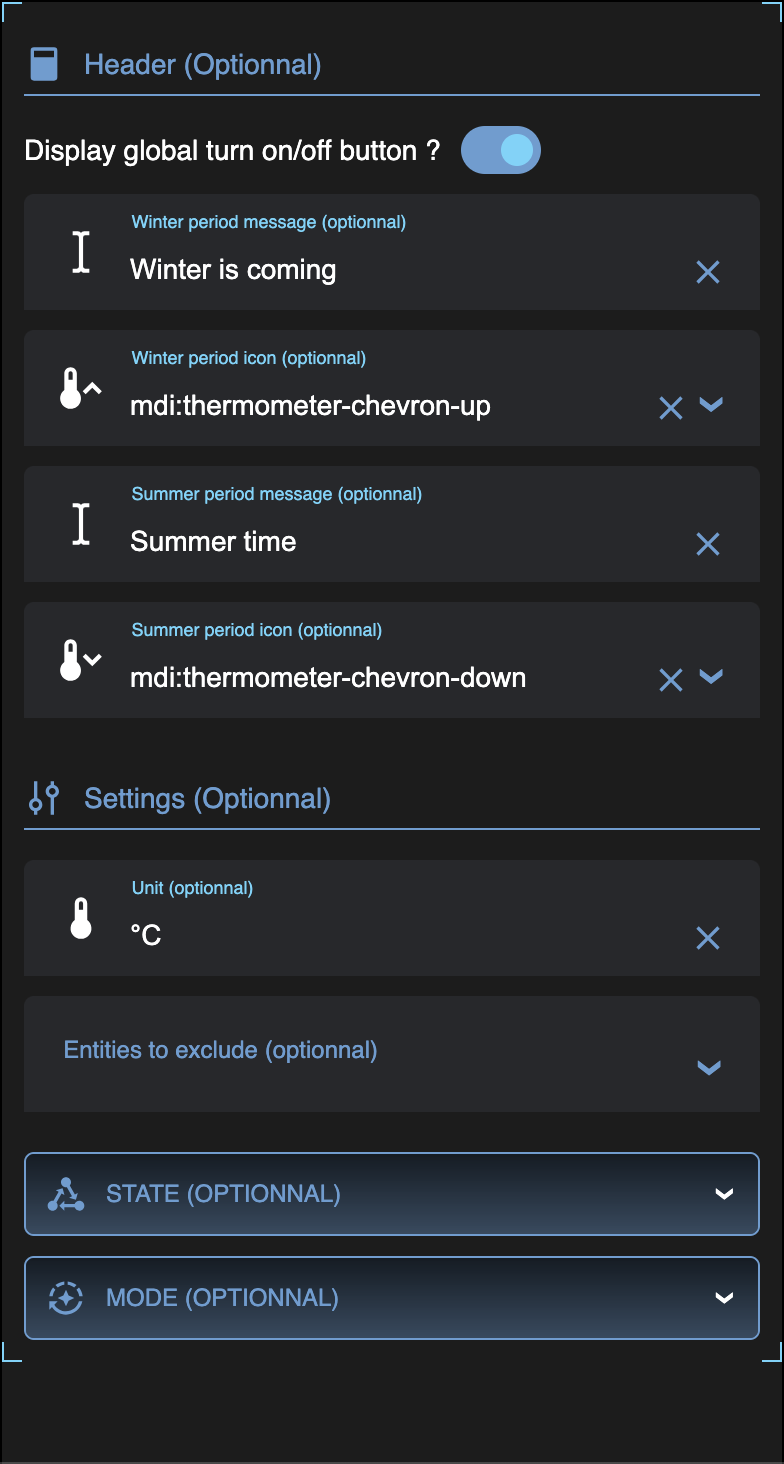
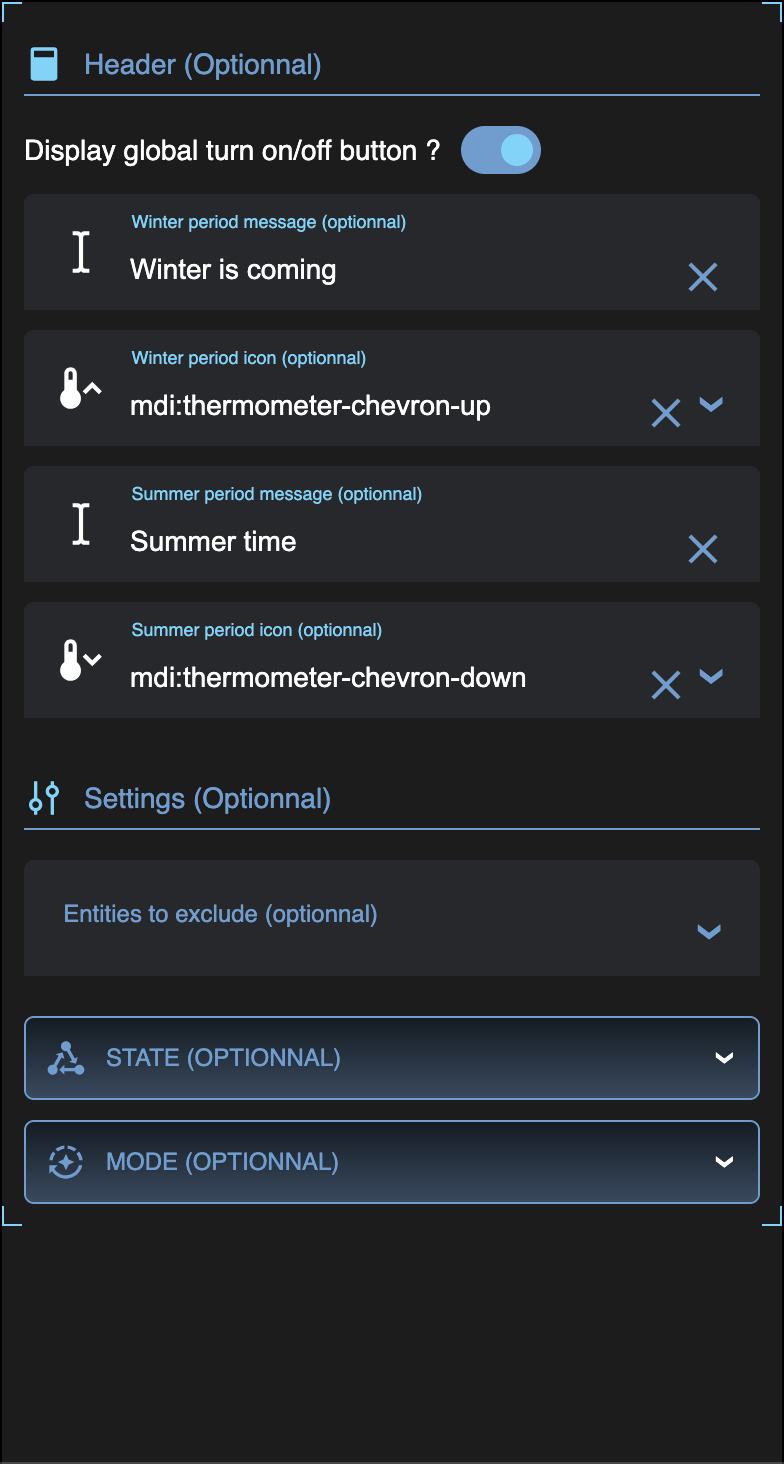
climate card : displaying temperature unit based on your HA system configuration

diff --git a/src/cards/climates/card.js b/src/cards/climates/card.js
@@ -17,6 +17,7 @@ export class SciFiClimates extends SciFiBaseCard {
   _configMetadata = configMetadata;
   _hass; // private
   _season;
+  _temp_unit;
 
   static get properties() {
     return {
@@ -31,6 +32,7 @@ export class SciFiClimates extends SciFiBaseCard {
     this._hass = hass;
     if (!this._config) return; // Can't assume setConfig is called before hass is set
 
+    if (!this._temp_unit) this._temp_unit = hass.config.unit_system.temperature; // Gather HA temperature unit only once
     if (!this._season && hass.states['sensor.season'])
       this._season = new Season('sensor.season', hass);
     // Build house
@@ -73,7 +75,7 @@ export class SciFiClimates extends SciFiBaseCard {
         <sci-fi-icon icon="mdi:home-thermometer-outline"></sci-fi-icon>
         <div class="text">
           ${this._house.getTemperature(this._config.entities_to_exclude)}${this
-            ._config.unit}
+            ._temp_unit}
         </div>
       </div>
       <div class="actions">${this.__displayActionHeader()}</div>
@@ -132,7 +134,7 @@ export class SciFiClimates extends SciFiBaseCard {
     const floor = this._house.getFloor(this._active_floor_id);
     const temperature = floor.getTemperature(this._config.entities_to_exclude);
     const icon = temperature ? 'mdi:thermometer' : 'mdi:thermometer-off';
-    const label = temperature ? temperature + this._config.unit : 'Off';
+    const label = temperature ? temperature + this._temp_unit : 'Off';
     return html`
       <div class="title ${!temperature ? 'off' : 'on'}">${floor.name} -</div>
       <div class="temperature ${!temperature ? 'off' : 'on'}">
@@ -240,7 +242,7 @@ export class SciFiClimates extends SciFiBaseCard {
           <sci-fi-radiator
             id="${climate.entity_id}"
             .climateEntity="${climate.renderAsEntity()}"
-            .unit="${this._config.unit}"
+            .unit="${this._temp_unit}"
             .styles="${styles}"
             @change-preset-mode="${this._changePresetMode}"
             @change-hvac-mode="${this._changeHvacMode}"

diff --git a/src/cards/climates/editor.js b/src/cards/climates/editor.js
@@ -113,14 +113,6 @@ export class SciFiClimatesEditor extends SciFiBaseEditor {
         <span><sci-fi-icon icon="mdi:tune-vertical-variant"></sci-fi-icon></span
         >Settings (optionnal)
       </h1>
-      <sci-fi-input
-        icon="mdi:thermometer"
-        label="Unit (optionnal)"
-        value=${this._config.unit}
-        element-id="unit"
-        kind="unit"
-        @input-update=${this.__update}
-      ></sci-fi-input>
       <sci-fi-dropdown-multi-entities-input
         label="Entities to exclude (optionnal)"
         element-id="entities_to_exclude"

diff --git a/src/helpers/entities/person.js b/src/helpers/entities/person.js
@@ -7,9 +7,6 @@ export class Person {
     // Connected user language preferences
     this.language = hass.language;
     this.locale = hass.locale;
-    // HA Config
-    this.currency = hass.config.currency
-    this.unit_system = hass.config.unit_system
   }
 
   __getConnectedUser(hass) {

diff --git a/tests/js/hass.js b/tests/js/hass.js
@@ -215,6 +215,7 @@ window.buildHass = function () {
   getConfig(window.hass.connection).then(
     (config) => {
       window.hass.config = config;
+      // Mock
       window.hass.language = config.language;
       window.hass.locale = {
         language: config.language,

diff --git a/src/cards/climates/config-metadata.js b/src/cards/climates/config-metadata.js
@@ -1,9 +1,4 @@
 export default {
-  unit: {
-    mandatory: false,
-    type: 'string',
-    default: '°C',
-  },
   entities_to_exclude: {
     mandatory: false,
     type: 'array',

diff --git a/tests/config/config_climates.js b/tests/config/config_climates.js
@@ -1,5 +1,4 @@
 export default {
-  unit: '°C',
   entities_to_exclude: ['climate.clou'],
   header: {
     display: true,

diff --git a/README.md b/README.md
@@ -536,6 +536,9 @@ Allow to deal with climates entities, grouping them per floors/areas.
 > [!NOTE]
 > If Home Assistant `Season` type `Meteorological` sensor is available, season icon (winter, spring, summer & autumn) will be displayed on top right of the card.
 
+> [!NOTE]
+> Card temperature unit is based on you HA system configuration.
+
 ### Screenshots
 
 <details>
@@ -574,7 +577,6 @@ header:
   message_winter_state: Winter is coming
   icon_summer_state: mdi:thermometer-chevron-down
   message_summer_state: Summer time
-unit: "°C"
 entities_to_exclude:
   - climate.excluded_1
 state_icons:
@@ -607,7 +609,6 @@ mode_colors:
 | - | - | - | - | - |
 | type | String | **Required** | Card definition | `custom:sci-fi-climates`| 
 | `header` | Object | **Optionnal** | Header card options  |  |
-| unit | String | **Optionnal** | Climate temperature unit  | °C |
 | entities_to_exclude | List[String] | **Optional** | Entities' id list to exclude from tracking. Example: `climate.excluded_1`, `climate.excluded_1`  | `[]`|
 | `state_icons` | Object | **Optionnal** | Icons for each climate states  |  |
 | `state_colors` | Object | **Optionnal** | Color for each climate states  |  |
@@ -619,7 +620,6 @@ mode_colors:
 type: custom:sci-fi-climates
 header:
   ... # see header configuration bellow
-unit: "°C"
 entities_to_exclude:
   - climate.excluded_1
   - climate.excluded_2
@@ -969,7 +969,7 @@ vehicles:
 ```yaml
 type: custom:sci-fi-vehicles
 vehicles: 
-  - <vehicle>
+  ... # see vehicle configuration bellow
 ```
 
 <br>

diff --git a/CHANGELOG.md b/CHANGELOG.md
@@ -1,12 +1,15 @@
 # Changelog
 
-## 🆕 What's New
+## 🆕 What's Changed
 
 🚗 Vehicles card
 - Do not display `<` & `>` icon when only one vehicle is configured
 
 🦾 Technical
 - Date rendering is now based on user preferences defined in HA local (date_format)
+
+🌡 Climate card
+- Displaying temperature unit based on your HA system configuration
 
 # [v0.6.2](https://github.com/adrien-parasote/ha-sci-fi/releases/tag/0.6.2) - 2025-03-16
 
